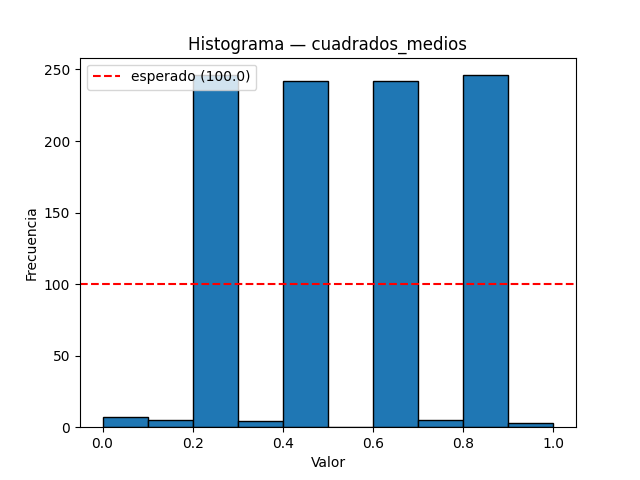
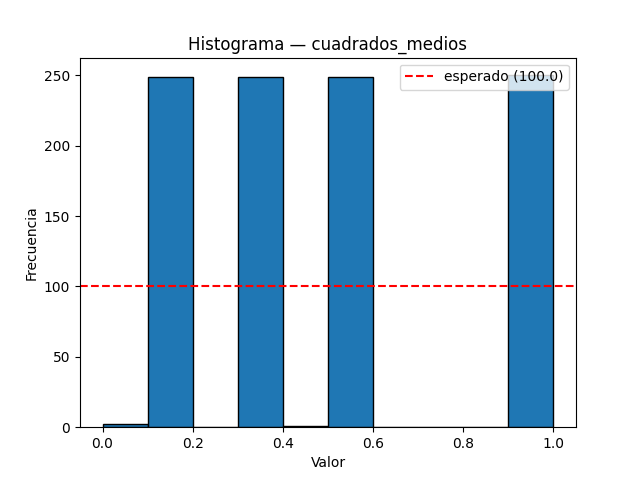
distibucion binomial codigo

diff --git a/TP2.2/distribuciones.py b/TP2.2/distribuciones.py
@@ -6,6 +6,7 @@
 import random
 from math import exp, factorial, floor, log, sqrt
 import matplotlib.pyplot as plt
+from math import comb
 
 # -----------------------------------------------------------------------------
 # DISTRIBUCIÓN UNIFORME (Continua)
@@ -85,6 +86,25 @@ def distribucion_pascal(k, p):
     return resultado
 
 
+# -----------------------------------------------------------------------------
+# DISTRIBUCIÓN binomial (Discreta)
+# -----------------------------------------------------------------------------
+
+def distribucion_binomial(n, p):
+    r = random.random()
+
+    acumulada = 0
+
+    for x in range(n + 1):
+
+        prob = comb(n, x) * (p ** x) * ((1 - p) ** (n - x))
+
+        acumulada += prob
+
+        if r <= acumulada:
+            return x
+
+    return n
 # -----------------------------------------------------------------------------
 # DISTRIBUCIÓN POISSON (Discreta)
 # -----------------------------------------------------------------------------
@@ -322,6 +342,28 @@ def main():
                 f"Pascalk={k}p={p}",
                 media_teorica=((k * (1 - p)) / p),
                 varianza_teorica=(k * (1 - p) / p**2),
+            )
+        case "binomial":
+
+            n = int(input("n (cantidad de ensayos): "))
+            p = float(input("p (probabilidad de éxito): "))
+
+            valores = [
+                distribucion_binomial(n, p)
+                for _ in range(1000)
+            ]
+
+            probs = {
+                x: comb(n, x) * (p ** x) * ((1 - p) ** (n - x))
+                for x in range(n + 1)
+            }
+
+            testear_discreta(
+                valores,
+                f"Binomial(n={n},p={p})",
+                media_teorica=n * p,
+                varianza_teorica=n * p * (1 - p),
+                probs_teoricas=probs,
             )
         case "poisson":
             lam = float(input("λ (media): "))

diff --git a/TP2.1/generadores.py b/TP2.1/generadores.py
@@ -192,7 +192,7 @@ def python_random(n):
 GENERADORES = {
     "gcl": lambda n: gcl(m=2**32, a=1664525, c=1013904223, x0=42, n=n),
     "python_random": python_random,
-    "cuadrados_medios": lambda n: cuadrados_medios(x0=1006 , n=n), #con esta semilla NO degenera. Con x0=1234 si.
+    "cuadrados_medios": lambda n: cuadrados_medios(x0=1439 , n=n), #con esta semilla NO degenera. Con x0=1234 si.
     "tiempo": lambda n: generador_tiempo(n) #solo cambia la semilla a una aleatoria pro es lo mismo a cuadrados_medios
 }
 
